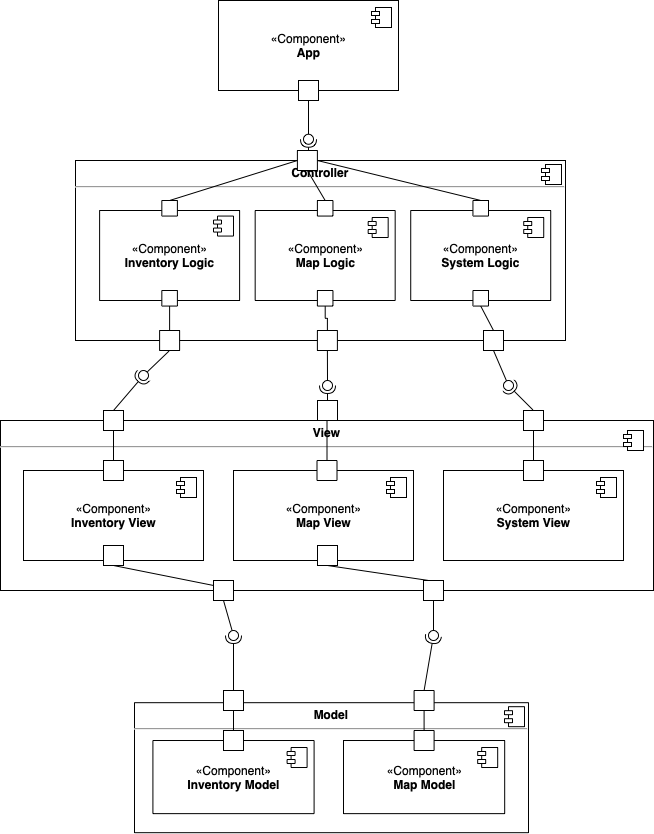
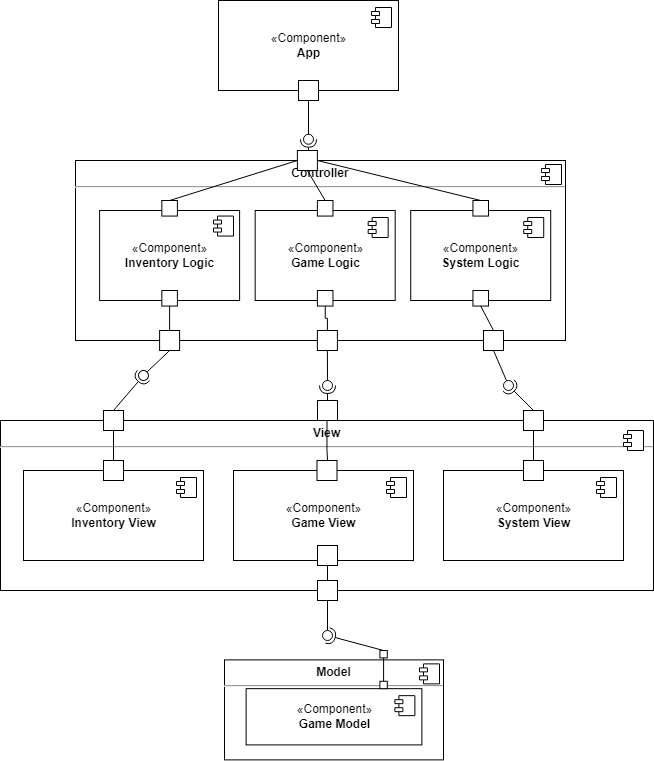
Update README and refactoring

diff --git a/src/handlers/game_handler.py b/src/handlers/game_handler.py
@@ -1,18 +1,17 @@
 from typing import List, Tuple, Optional
 
+import numpy as np
 import pygame
+
 from src.entities.armor import Armor
-from src import state
 from src.entities.cell import CellType
 from src.entities.confused_enemy import ConfusedEnemy
 from src.entities.enemy import Enemy
-from src.entities.weapon import Weapon
 from src.entities.hero import Hero
+from src.entities.weapon import Weapon
 from src.model.game_model import GameModel
 from src.state import State
 from src.views.game_view import GameView
-
-import numpy as np
 
 
 def __fight__(hero: Hero, enemy: Enemy):
@@ -35,7 +34,6 @@ class GameHandler:
     def __init__(self, game_model: GameModel, game_view: GameView):
         self.game_view = game_view
         self.game_model = game_model
-
 
     def __get_next_hero_pos__(self, key_event: int, hero: Hero) -> Tuple[int, int]:
         next_pos = (hero.cell_pos[0] + self.movement[key_event][0],

diff --git a/src/entities/coward_enemy.py b/src/entities/coward_enemy.py
@@ -1,4 +1,5 @@
 from typing import Tuple
+
 from src.entities.cell import CellType
 from src.entities.enemy import Enemy
 
@@ -17,8 +18,10 @@ def __try_move__(next_pos, hero, enemies, cells) -> bool:
         return False
     return True
 
+
 class CowardEnemy(Enemy):
-    def __init__(self, health, max_health: int, cell_pos, image_key: int, damage: int, exp_gain: int, scare_radius: int):
+    def __init__(self, health, max_health: int, cell_pos, image_key: str, damage: int, exp_gain: int,
+                 scare_radius: int):
         super().__init__(health, max_health, cell_pos, image_key, damage, exp_gain)
         self.scare_radius = scare_radius
 

diff --git a/src/entities/aggressive_enemy.py b/src/entities/aggressive_enemy.py
@@ -8,7 +8,7 @@ from src.handlers.game_handler import __fight__
 
 
 class AggressiveEnemy(Enemy):
-    def __init__(self, health: int, max_health: int, cell_pos, image_key: int, damage: int, exp_gain: int,
+    def __init__(self, health: int, max_health: int, cell_pos, image_key: str, damage: int, exp_gain: int,
                  attack_radius: int):
         super().__init__(health, max_health, cell_pos, image_key, damage, exp_gain)
         self.attack_radius = attack_radius

diff --git a/src/entities/enemy.py b/src/entities/enemy.py
@@ -2,7 +2,8 @@ from typing import Tuple
 
 
 class Enemy:
-    def __init__(self, health: int, max_health: int, cell_pos: Tuple[int, int], image_key: int, damage: int, exp_gain: int):
+    def __init__(self, health: int, max_health: int, cell_pos: Tuple[int, int],
+                 image_key: str, damage: int, exp_gain: int):
         self.health = health
         self.max_health = max_health
         self.cell_pos = cell_pos

diff --git a/src/entities/passive_enemy.py b/src/entities/passive_enemy.py
@@ -2,5 +2,5 @@ from src.entities.enemy import Enemy
 
 
 class PassiveEnemy(Enemy):
-    def __init__(self, health: int, max_health: int, cell_pos, image_key: int, damage: int, exp_gain: int):
+    def __init__(self, health: int, max_health: int, cell_pos, image_key: str, damage: int, exp_gain: int):
         super().__init__(health, max_health, cell_pos, image_key, damage, exp_gain)

diff --git a/src/entities/hero.py b/src/entities/hero.py
@@ -10,7 +10,7 @@ class Hero:
     """
 
     def __init__(self, *, health: int, max_health: int, exp: int, level: int,
-                 cell_pos: Tuple[int, int], image_key: int, damage: int):
+                 cell_pos: Tuple[int, int], image_key: str, damage: int):
         self.health = health
         self.max_health = max_health
         self.exp = exp

diff --git a/src/handlers/system_handler.py b/src/handlers/system_handler.py
@@ -1,11 +1,9 @@
 import pygame
 
 from src.config import Config
-from src.entities.inventory import Inventory
 from src.save_slot import SaveSlot
-from src.views.system_view import SystemView
 from src.state import State
-from src import state
+from src.views.system_view import SystemView
 
 
 class SystemHandler:

diff --git a/src/entities/cell.py b/src/entities/cell.py
@@ -12,8 +12,7 @@ class Cell:
     """
     Элемент карты
     """
-    images = []
 
-    def __init__(self, *, image_key: int, cell_type: CellType):
+    def __init__(self, *, image_key: str, cell_type: CellType):
         self.image_key = image_key
         self.cell_type = cell_type

diff --git a/src/handlers/inventory_handler.py b/src/handlers/inventory_handler.py
@@ -1,9 +1,7 @@
 import pygame
 
-from src import state
 from src.config import Config
 from src.entities.armor import Armor
-from src.entities.inventory import Inventory
 from src.entities.weapon import Weapon
 from src.state import State
 from src.views.inventory_view import InventoryView

diff --git a/src/views/game_view.py b/src/views/game_view.py
@@ -22,6 +22,7 @@ def reddening(surf, alpha):
     redsurf.blit(redshade, (0, 0))
     return redsurf
 
+
 class GameView:
     """
     Класс ответственный за вывод на экран карты и других обьектов

diff --git a/README.md b/README.md
@@ -13,14 +13,10 @@
 - Поддержка однопользовательского оффлайн-режима
 - Консольная графика
 - Управление с помощью клавиатуры
-- Главное меню:
-    - два слота для сохранения текущего прогресса
-    - описание текущего состояния экипировки и оружия
-    - краткая инструкция по игре
-
+- Главное меню
 - Случайная генерация карт для уровней (количество комнат и расположение противников)
-- Помимо игрового поля на экране отображаются панели с текущими состояниями экипировки, оружия, здоровья, а также
-  инвентарь
+- Помимо игрового поля на экране отображаются шкала с текущими состоянием здоровья, с текущим уровнем уровня
+- Наличие инвентаря с возможностью надеть/снять какие-то вещи
 
 ### Контекст системы
 - Приложение должно поддерживаться на MacOS, Linux и Windows
@@ -42,20 +38,15 @@
 - Игрок управляет одним персонажем
 - У персонажа есть:
     - шкала здоровья
+    - шкала опыта
     - экипировка
-    - оружие (меч, посох, пистолет, ...)
-- Игрок может выбрать в начале игры разное оружие для сражения
-- От вида оружия зависит радиус поражения, время удара (cast time) и количество наносимого урона
+    - оружие (меч, посох, ...)
+- Игрок может выбирать разное оружие для сражения
+- От вида оружия зависит количество наносимого урона
 - Существуют различные виды противников: разный радиус, в котором они замечают персонажа и разное количество наносимого урона за удар
-- За убийство противников может с некоторой вероятностью выпасть зелья для лечения здоровья
 - Персонаж может взаимодействовать с предметами на карте:
-    - сундуки, дающие зелья, которые улучшают экипировку, оружие или здоровье
-- Сохранение только после 5-го уровня
-- Игра состоит из 10 уровней:
-    - Первые 9 уровней – карта состоит из нескольких комнат с некоторым количеством противников
-    - Последний уровень – одна комната с противником-боссом
-
-
+    - сундуки, дающие экипировку или оружие
+ 
 ## Роли и случаи использования
 
 Роли:
@@ -85,14 +76,13 @@
 - **App** - точка входа в приложение, считывает ввод пользователя и передает на дальнейшую обработку
 - **Controller:**
   - **Inventory Logic** - обработка ввода пользователя в случае работы с инвентарем
-  - **Map Logic** - обработка ввода пользователя во время управления персонажем в ходе игры
+  - **Game Logic** - обработка ввода пользователя во время управления персонажем в ходе игры
   - **System Logic** - обработка ввода пользователя во время работы с меню
 - **Model:**
-  - **Inventory Model** - состояние инвентаря
-  - **Map Model** - состояние игрового поля
+  - **Game Model** - состояние игры
 - **View**
   - **Inventory View** - отображение окна с инвентарем
-  - **Map View** - отображение текущего игрового процесса
+  - **Game View** - отображение текущего игрового процесса
   - **System View** - отображение главного меню игры 
 
 ## Логическая структура
@@ -102,16 +92,18 @@
 - **EventHandler** - интерфейс, отвечающий за исполнение ввода пользователя
   - **GameHandler** - отвечает за текущее состояние игры (`GameModel`)
   - **SystemHandler** - отвечает за работу с главным меню (`Menu`) - позволяет загрузить сохраненную игру(`SaveSlot`), удалить сохраненную игру и прочитать правила игры
-  - **InventoryHandler** - отвечает за работу с инвентарем – позволяет использовать различные виды зелий(`Potion`)
-- **GameModel** - хранит все элементы игровой карты: различные виды блоков, вражеских существ и героя
+  - **InventoryHandler** - отвечает за работу с инвентарем – позволяет надевать/снимать/выбрасывать экиперовку и оружие(`Potion`)
+- **GameModel** - хранит все элементы игровой карты: состояние инвентаря, различные виды блоков, вражеских существ и героя
 - **LevelLoader** - интерфейс, позволяющий загружать игровые уровни
   - **DefaultLevelLoader** - стандартный загрузчик уровней, преобразующий json файлы, удовлетворяющие некоторому инварианту в игровое состояние (`GameModel`)  
-- **Entity** - базовый класс, от которого наследуется любой отображаемый на игровом экране обьект
-  - **Cell** - хранит расположение клетки на сетке карты, а также ее содержимое (`CellState`)
-  - **Enemy** - класс, отвечающий за противников игрока - хранит радиус детектирования персонажа и уровень урона
-  - **Hero** - хранит информацию о текущем персонаже - оружие и его состояние, уровень здоровья и состояние экипировки
-- **SaveSlot** - хранит сохраненные игры - последний уровень и оружие, которым пользовался персонаж
-- **Inventory** - хранит накопленные персонажем зелья, имеет ограниченную вместимость
+- **Cell** - хранит расположение клетки на сетке карты, а также ее содержимое (`CellState`)
+- **Enemy** - базовый класс, от которого наследуются мобы
+  - **PassiveEnemy** - пассивный моб, стоящий все время на месте
+  - **CowardEnemy** - трусливый моб, убегающий при приближении героя
+  - **AggressiveEnemy** - агрессивный моб, который атакует героя, если он близко
+  - **ConfusedEnemy** - моб, находящийся под эффектом конфузии, перемещается, случайно выбирая соседнюю клетку
+- **Hero** - хранит информацию о текущем персонаже - уровень здоровья, количество опыта, оружие и его состояние, состояние экипировки и уровень брони
+- **Inventory** - хранит собранные персонажем вещи, имеет ограниченную вместимость
 - **View** - интерфейс, отвечающий за объекты, которые будут отображаться пользователю  
   - **GameView** - отображение карты, персонажа, врагов и прочего основного процесса игры пользователю
   - **SystemView** - отображение главного меню 
@@ -123,17 +115,17 @@
 
 После загрузки уровня оказываемся в состоянии `Stand still`. 
 При нажатии клавиш `WASD` можем тратить ход на перемещение по карте по свободным клеткам. 
-При встрече с противником есть возможность атаковать его - для этого нажать соответствующую кнопку и, если противник окажется в радиусе действия оружия персонажа, начать атаку. 
-Атака может длиться несколько ходов, в эти ходы обновляется карта, а именно положение противника, а также состояние героя, в том случае если противник начал атаковать персонажа.
-Также есть возможность потратить ход на открытие инвентаря персонажа, где находятся зелья, которые персонаж может найти в сундуках, раскиданных по карте.
-При использовании зелья из инвентаря улучшаются соответствующие характеристики (состояние брони, оружия или здоровья).
+При встрече с противником есть возможность атаковать его - для этого надо шагнуть на клетку, занимаемую противником. 
+Атака длиться один ход, в этот ход атакует и противник, т.е любая атака сопровождается и ответным ударом. После атаки обновляется состояние героя и противника, если противник умер, то за него начисляется опыт.
+Также есть возможность потратить ход на открытие инвентаря персонажа, где находится оружие или экипировка.
+При надевании вещи из инвентаря улучшаются соответствующие характеристики (состояние брони, оружия или здоровья).
 Уровень считается пройденным, как только персонаж добрался до клетки с выходом (`Cairn of passage`)
 
 ### Диаграмма последовательностей - диаграмма начала игрового процесса
 ![Sequence](resources/sequence.png)
 
-Пользователь(`Player`) своим действием на клавиатуре создает `KeyEvent`(в данном случае выбор элемента из меню), `SystemHandler` распознает это действие как начало игры(`startGame`). Далее вызывается компонента, отвечающая за состояние игры(`MapHandler`). Она в свою очередь занимается генерацией поля (`Map`), инициализацией персонажа (`Hero`) и его врагов (`Enemy`).
-Вся полученная `MapHandler'ом` информация хранится в `Map`, так как именно там хранится информация о типе каждой из клеток (`Cell`).
+Пользователь(`Player`) своим действием на клавиатуре создает `KeyEvent`(в данном случае выбор элемента из меню), `SystemHandler` распознает это действие как начало игры(`startGame`). Далее вызывается компонента, отвечающая за состояние игры(`GameHandler`). Она в свою очередь занимается загрузкой уровня (`GameModel`), инициализацией персонажа (`Hero`) и его врагов (`Enemy`).
+Вся полученная `GameHandler'ом` информация хранится в `GameModel`, так как именно там хранится информация о типе каждой из клеток (`Cell`).
 
 
 ### Выбор вреймворка
